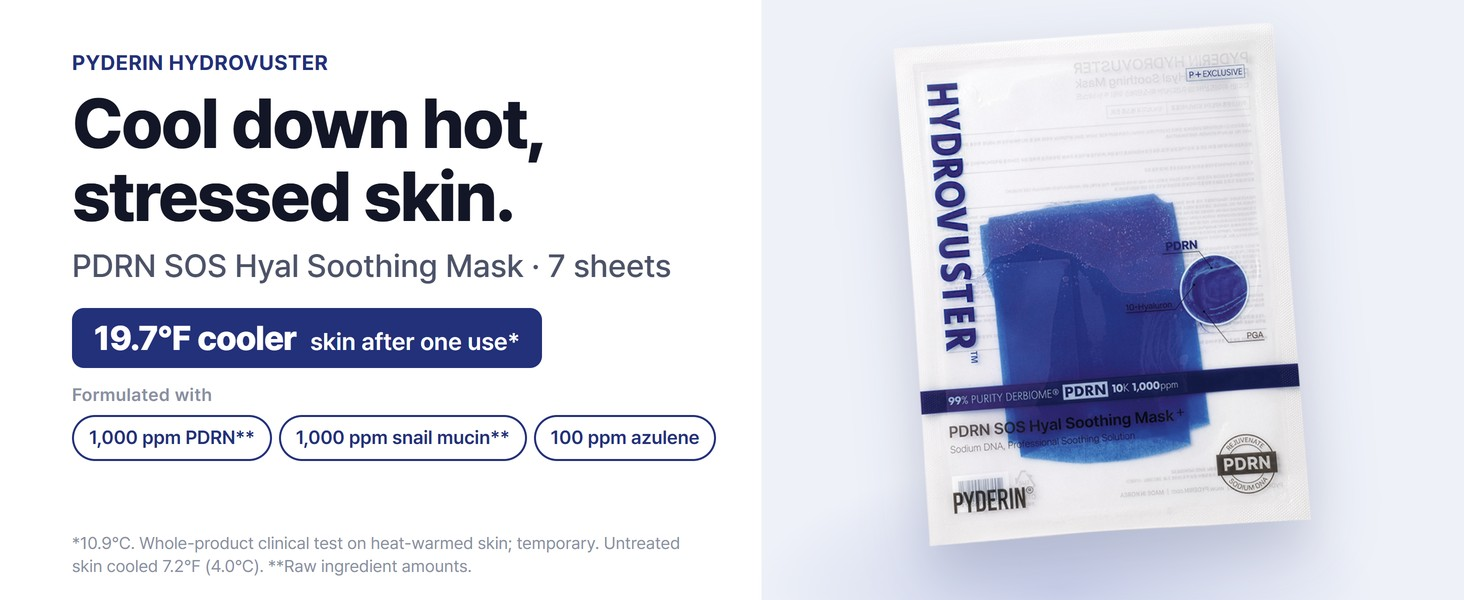
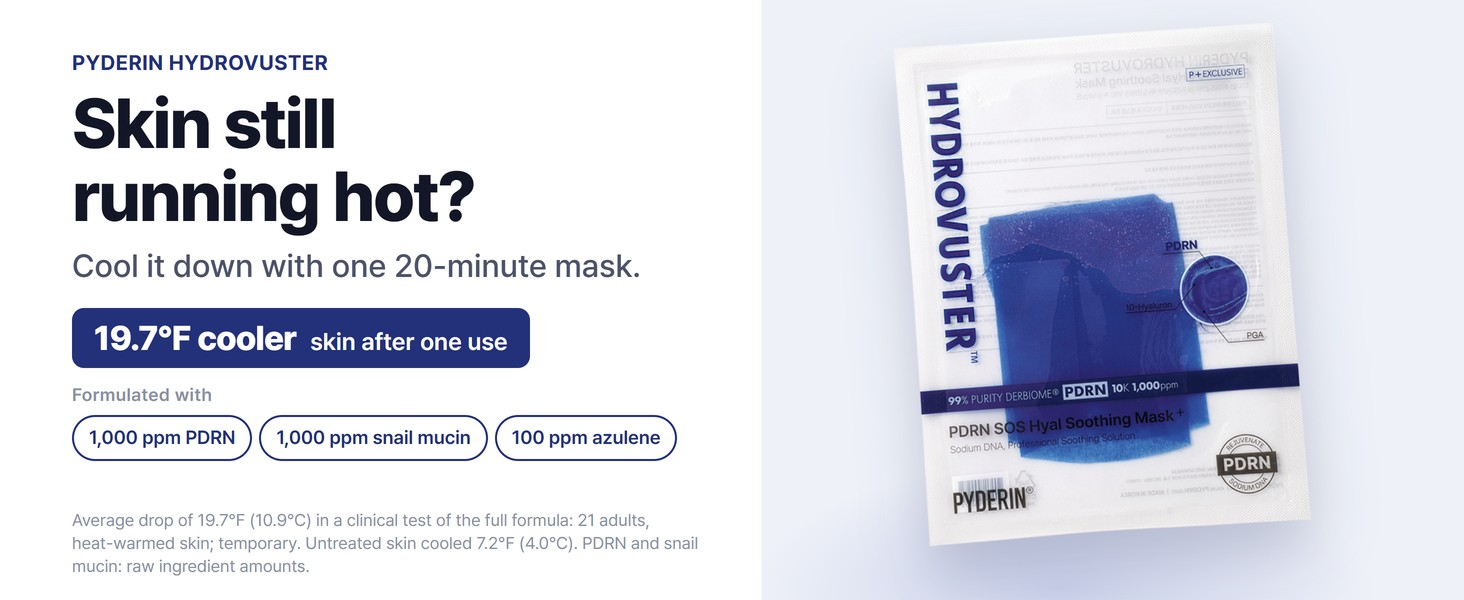
HYDROVUSTER 마스크: A1 B안 확정, 별표 표시 삭제(출처 줄로 대체), 후킹 비교 페이지 정리

diff --git a/hydrovuster-mask/index.html b/hydrovuster-mask/index.html
@@ -142,7 +142,7 @@
 <div class="sec"><h2>From the brand</h2>
  <div class="rel box"><span class="pin" style="left:10px;top:-14px"><b>BS</b>브랜드 스토리 — 모든 피더린 상품 공통 띠</span>
  <div class="bs">
-  <div class="h"><img src="assets/bs/logo-white.png" alt="PYDERIN"><div><div class="ey">KOREAN CLINIC AND PHARMACY SKINCARE</div><b>PDRN, documented.</b><p>Carried by 2,000+ pharmacies in Korea.¹ Purity, molecular weight and origin come straight from our supplier’s certificates.</p></div><div><span class="lk">Visit the Store ›</span><br><small>¹ Company figure reported by Dailypharm, July 22, 2026.</small></div></div>
+  <div class="h"><img src="assets/bs/logo-white.png" alt="PYDERIN"><div><div class="ey">KOREAN CLINIC AND PHARMACY SKINCARE</div><b>PDRN, documented.</b><p>Carried by 2,000+ pharmacies in Korea. Purity, molecular weight and origin come straight from our supplier’s certificates.</p></div><div><span class="lk">Visit the Store ›</span><br><small>2,000+: company figure reported by Dailypharm, July 22, 2026.</small></div></div>
   <div class="c"><img src="assets/bs/doc-coa.jpg" style="object-fit:contain;padding:14px;background:#eef1f8"><div class="t"><b style="color:#23307a">Our PDRN</b><p>99% purity, 97 kDa, from Korean chum salmon.</p><span class="lk">Learn about our PDRN ›</span></div></div>
   <div class="c"><img src="assets/bs/m-cream.jpg"><div class="t"><b style="color:#23307a">PDRN Lift</b><p>The firming line found in Korean skin clinics.</p><span class="lk">Shop PDRN Lift ›</span></div></div>
   <div class="c"><img src="assets/bs/m-rejuvuster.jpg"><div class="t"><b style="color:#b0202d">REJUVUSTER</b><p>The PDRN cream carried by pharmacies across Korea.</p><span class="lk">Shop REJUVUSTER ›</span></div></div>
@@ -162,8 +162,8 @@
 </div>
 <div class="cmpw rel"><span class="pin" style="left:12px;top:-14px"><b>C</b>비교표 — A+ 마지막 칸, 피더린 아마존 상품 8개 전부</span>
  <h3>Compare PYDERIN PDRN skincare</h3>
- <table class="cmp2"><tr><th></th><td class=this><em>This item</em><img src="assets/pouch.png" style="padding:12px 30px"><span class="ln" style="color:#2f44b0">HYDROVUSTER</span><a>PDRN SOS Hyal Soothing Mask</a></td><td><em class=sp></em><img src="assets/cmp/hv-serum.jpg"><span class="ln" style="color:#2f44b0">HYDROVUSTER</span><a>PDRN SOS Derma Soothing Serum</a></td><td><em class=sp></em><img src="assets/cmp/hv-cream.jpg"><span class="ln" style="color:#2f44b0">HYDROVUSTER</span><a>PDRN Re-Barrier Soothing Cream</a></td><td><em class=sp></em><img src="assets/cmp/lift-toner.jpg"><span class="ln" style="color:#23307a">PDRN Lift</span><a>PDRN Lift Toner</a></td><td><em class=sp></em><img src="assets/cmp/lift-ampoule.jpg"><span class="ln" style="color:#23307a">PDRN Lift</span><a>PDRN Lift Fit Ampoule</a></td><td><em class=sp></em><img src="assets/cmp/lift-cream.jpg"><span class="ln" style="color:#23307a">PDRN Lift</span><a>PDRN Lift Cream</a></td><td><em class=sp></em><img src="assets/cmp/lift-mask.jpg"><span class="ln" style="color:#23307a">PDRN Lift</span><a>PDRN Lift Facial Mask</a></td><td><em class=sp></em><img src="assets/cmp/rejuvuster.jpg"><span class="ln" style="color:#b0202d">REJUVUSTER</span><a>REJUVUSTER Cream+</a></td></tr><tr><th>Use</th><td class=this>Cooling sheet mask, when skin feels hot</td><td>Daily soothing serum</td><td>Light soothing cream</td><td>Step 1: hydrates and preps</td><td>Step 2: lightweight serum</td><td>Step 3: the signature firming cream</td><td>Weekly sheet mask</td><td>Rich, buttery cream that hydrates</td></tr><tr><th>Size</th><td class=this>7 sheets, 1.13 oz each</td><td>1.35 fl oz (40 ml)</td><td>2.03 fl oz (60 ml)</td><td>3.38 fl oz (100 ml)</td><td>1.01 fl oz (30 ml)</td><td>1.01 fl oz (30 ml)</td><td>5 sheets</td><td>0.85 fl oz (25 ml)</td></tr><tr><th>PDRN*</th><td class=this>1,000 ppm</td><td>10,000 ppm</td><td>5,000 ppm</td><td>20,000 ppm</td><td>20,000 ppm</td><td>20,000 ppm</td><td>1,000 ppm</td><td>10,000 ppm</td></tr><tr><th>Also with</th><td class=this>Snail mucin<br>Azulene<br>2% niacinamide</td><td>Snail mucin<br>Guaiazulene</td><td>Panthenol<br>Guaiazulene</td><td></td><td></td><td></td><td></td><td>2% niacinamide<br>Centella</td></tr><tr><th></th><td class=this><span class="atc">Add to Cart</span></td><td><span class="atc">Add to Cart</span></td><td><span class="atc">Add to Cart</span></td><td><span class="atc">Add to Cart</span></td><td><span class="atc">Add to Cart</span></td><td><span class="atc">Add to Cart</span></td><td><span class="atc">Add to Cart</span></td><td><span class="atc">Add to Cart</span></td></tr></table>
- <p class="cf">*Derbiome® PDRN 10K raw ingredient per package or current listing. Blank = not listed here.</p>
+ <table class="cmp2"><tr><th></th><td class=this><em>This item</em><img src="assets/pouch.png" style="padding:12px 30px"><span class="ln" style="color:#2f44b0">HYDROVUSTER</span><a>PDRN SOS Hyal Soothing Mask</a></td><td><em class=sp></em><img src="assets/cmp/hv-serum.jpg"><span class="ln" style="color:#2f44b0">HYDROVUSTER</span><a>PDRN SOS Derma Soothing Serum</a></td><td><em class=sp></em><img src="assets/cmp/hv-cream.jpg"><span class="ln" style="color:#2f44b0">HYDROVUSTER</span><a>PDRN Re-Barrier Soothing Cream</a></td><td><em class=sp></em><img src="assets/cmp/lift-toner.jpg"><span class="ln" style="color:#23307a">PDRN Lift</span><a>PDRN Lift Toner</a></td><td><em class=sp></em><img src="assets/cmp/lift-ampoule.jpg"><span class="ln" style="color:#23307a">PDRN Lift</span><a>PDRN Lift Fit Ampoule</a></td><td><em class=sp></em><img src="assets/cmp/lift-cream.jpg"><span class="ln" style="color:#23307a">PDRN Lift</span><a>PDRN Lift Cream</a></td><td><em class=sp></em><img src="assets/cmp/lift-mask.jpg"><span class="ln" style="color:#23307a">PDRN Lift</span><a>PDRN Lift Facial Mask</a></td><td><em class=sp></em><img src="assets/cmp/rejuvuster.jpg"><span class="ln" style="color:#b0202d">REJUVUSTER</span><a>REJUVUSTER Cream+</a></td></tr><tr><th>Use</th><td class=this>Cooling sheet mask, when skin feels hot</td><td>Daily soothing serum</td><td>Light soothing cream</td><td>Step 1: hydrates and preps</td><td>Step 2: lightweight serum</td><td>Step 3: the signature firming cream</td><td>Weekly sheet mask</td><td>Rich, buttery cream that hydrates</td></tr><tr><th>Size</th><td class=this>7 sheets, 1.13 oz each</td><td>1.35 fl oz (40 ml)</td><td>2.03 fl oz (60 ml)</td><td>3.38 fl oz (100 ml)</td><td>1.01 fl oz (30 ml)</td><td>1.01 fl oz (30 ml)</td><td>5 sheets</td><td>0.85 fl oz (25 ml)</td></tr><tr><th>PDRN (raw)</th><td class=this>1,000 ppm</td><td>10,000 ppm</td><td>5,000 ppm</td><td>20,000 ppm</td><td>20,000 ppm</td><td>20,000 ppm</td><td>1,000 ppm</td><td>10,000 ppm</td></tr><tr><th>Also with</th><td class=this>Snail mucin<br>Azulene<br>2% niacinamide</td><td>Snail mucin<br>Guaiazulene</td><td>Panthenol<br>Guaiazulene</td><td></td><td></td><td></td><td></td><td>2% niacinamide<br>Centella</td></tr><tr><th></th><td class=this><span class="atc">Add to Cart</span></td><td><span class="atc">Add to Cart</span></td><td><span class="atc">Add to Cart</span></td><td><span class="atc">Add to Cart</span></td><td><span class="atc">Add to Cart</span></td><td><span class="atc">Add to Cart</span></td><td><span class="atc">Add to Cart</span></td><td><span class="atc">Add to Cart</span></td></tr></table>
+ <p class="cf">PDRN (raw) = Derbiome® PDRN 10K raw ingredient amount, per package or current listing. Blank = not listed here.</p>
 </div>
 <div class="sec" style="margin-top:20px"><h2>Customer reviews</h2></div>
 <div class="rev">No customer reviews yet</div>

diff --git a/hydrovuster-mask/storyboard.html b/hydrovuster-mask/storyboard.html
@@ -102,6 +102,7 @@ table{width:100%;border-collapse:collapse;background:#fff;font-size:13.5px}th,td
 <li class="o"><b>11/17 간격 수정</b>(사장님 "공간이 꽉 차 있잖아"): 실측 02 캡션-각주 −4px → 57px(열화상 높이 442→384), 01 각주가 파우치 밑을 지나며 8px → 각주를 왼쪽 글 영역 안으로(칩-각주 약 51px), 03 아래 빈 공간 176px → 글 덩어리를 세로 가운데로(120px). 꼬리표 자간 .02em, 성적서 전체 보이게. 측정 _gap_check.py</li>
 <li class="o"><b>11/17 영어 전체 미국식 정리·줄바꿈 검사</b>(사장님 "뉴욕식으로 다 바꿔, 어색한 거 다 빼고"): 7칸·상품명·글머리표·썸네일·브랜드 스토리 문안 교체(글머리표 긴 대시 → 콜론, 글머리표 안 별표 삭제하고 Results are temporary를 본문에, "Seasonal shifts"→"Weather changes", "−19.7°F skin temperature"→"19.7°F cooler skin" 등). 줄 끝 한 단어 방지(text-wrap pretty·balance), 숫자-단위 붙임. 검사: _copy_check.py 0건, _gap_check.py 겹침 0. 이전본 _bak_20261117/*_before_copy.html</li>
 <li class="o"><b>11/17 3대 성분</b>(사장님 "스네일 뮤신 소구, 이 세 개가 메인 성분"): 국내 상세 기준 PDRN·스네일 뮤신·아줄렌으로 교체. 전성분표 대조 — PDRN 원료 0.1%(1,000ppm), 발효 달팽이점액여과물 원료 0.1%(1,000ppm, 실제 달팽이점액 0.01%), 소듐구아이아줄렌설포네이트 0.01%(100ppm). 영문 이름은 10/27 파우치 변경대로 Azulene. "카모마일 유래"는 원료 근거 없어 뺌. 나이아신아마이드 2%는 Plus 줄로. A1 후킹 3안 a1-hooks.html(판정 대기)</li>
+<li class="o"><b>11/17 A1 B안 확정</b>(사장님 "B안으로 가"): "Skin still running hot?" + "Cool it down with one 20-minute mask." + 19.7°F 상자. <b>별표(*, **, ¹) 전부 삭제</b>(사장님 "뒤에 ** 계속 있거든? 없앨래?") — 조건 설명(시험 기관·인원·일시적·안 바른 쪽·원료 투입량)은 그대로 두고 각 칸 아래 출처 줄로.</li>
 <li class="x">남은 아쉬운 점: 03·05 사진은 AI로 추정되는 국내 상세 컷(시트가 보이는 제품 컷), 01 파우치는 한글판, 폰 폭 본문 약 7px, 01 제목 "heated skin" 표현은 선택 대기</li>
 <li class="o">숫자: −10.9°C·−4.0°C·21명·34–65세·0.00·32명·100%·나이아신아마이드 2%·32 g·7매 — 원문 PDF/전성분표와 대조 일치</li>
 <li class="o">국내 상세 오류 미반영: 10,000 ppm, "유스 부스팅 세럼", 하이브로부스터, 의학적 보호막, 경쟁 비교표, 비건·생분해</li>
